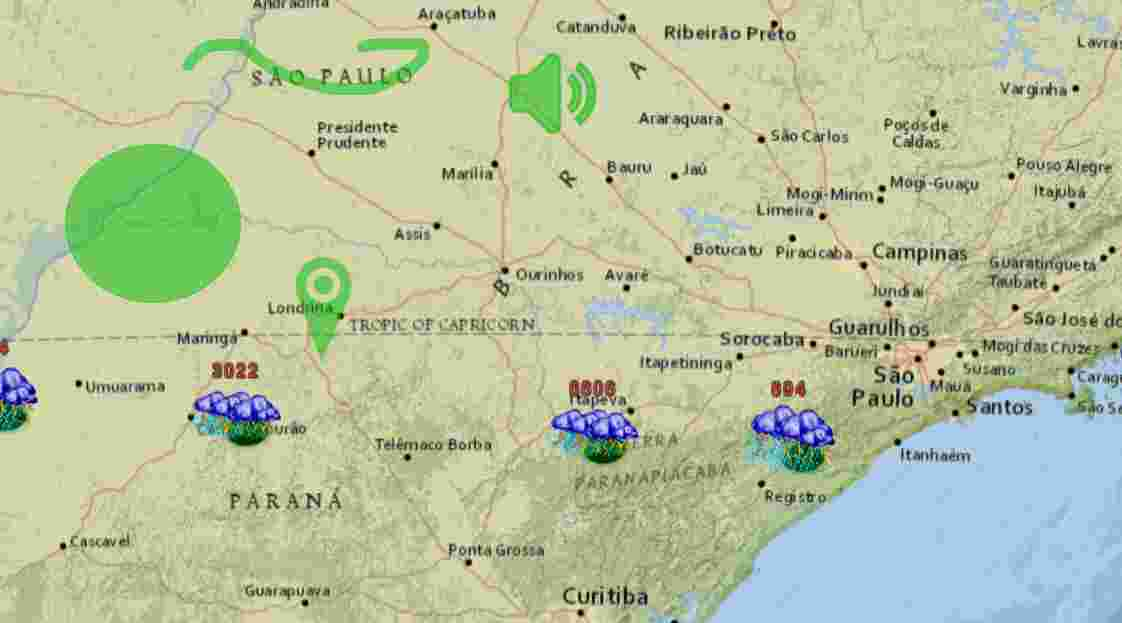
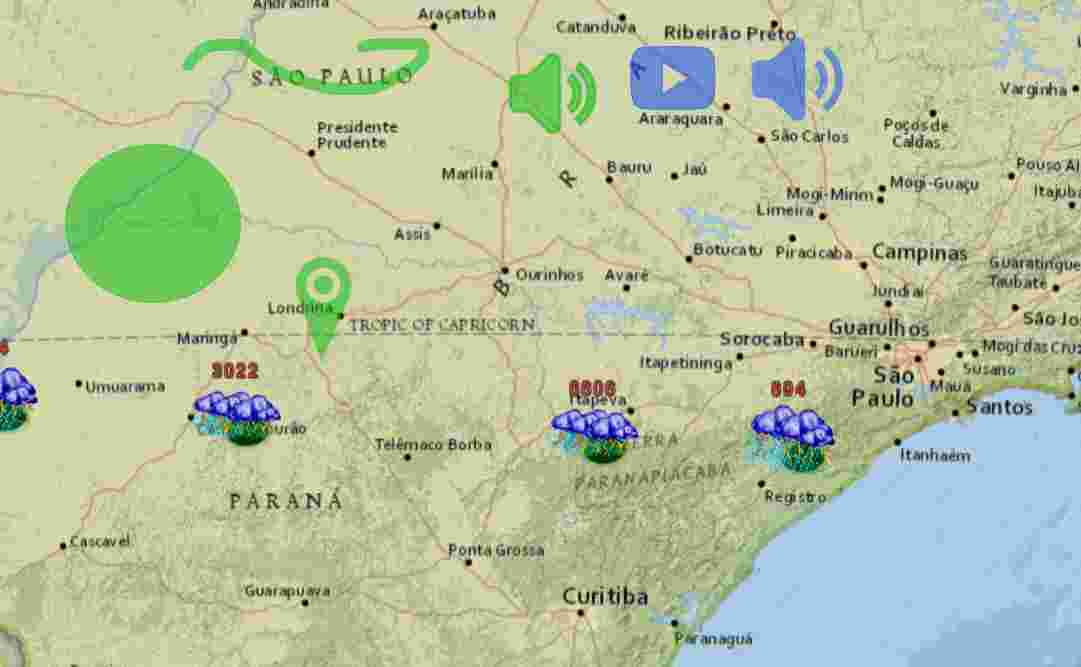
Correção no tamanho dos ícones audio e video e fechar ao tirar seleção do elemento multimidia

diff --git a/ProjetoColaborativo/Scripts/paineis.js b/ProjetoColaborativo/Scripts/paineis.js
@@ -72,7 +72,7 @@ canvas1.on('path:created', function (e) {
     SaveObject(e.path, false);
 });
 
-var audio;
+var audio, video;
 canvas1.on('object:selected', function (e) {
 
     var o = canvas1.getActiveObject();
@@ -92,6 +92,8 @@ canvas1.on('selection:cleared', function() {
     if (audio) {
         audio.pause();
     }
+
+    $("#media-player-toolbar").fadeOut();
 });
 
 function SaveObject(target, remover) {
@@ -391,7 +393,7 @@ $("input[type='button'].icon-pin").click(function () {
  * SPEAKER
  */
 
-var speakerpath = "M19.779,3.349l-1.111,1.664C20.699,6.663,22,9.179,22,12    c0,2.822-1.301,5.338-3.332,6.988l1.111,1.663C22.345,18.639,24,15.516,24,12C24,8.485,22.346,5.362,19.779,3.349z M17.55,6.687    l-1.122,1.68c0.968,0.913,1.58,2.198,1.58,3.634s-0.612,2.722-1.58,3.635l1.122,1.68C19.047,16.03,20,14.128,20,12    C20,9.873,19.048,7.971,17.55,6.687z M12,1c-1.177,0-1.533,0.684-1.533,0.684S7.406,5.047,5.298,6.531C4.91,6.778,4.484,7,3.73,7    H2C0.896,7,0,7.896,0,9v6c0,1.104,0.896,2,2,2h1.73c0.754,0,1.18,0.222,1.567,0.469c2.108,1.484,5.169,4.848,5.169,4.848    S10.823,23,12,23c1.104,0,2-0.895,2-2V3C14,1.895,13.104,1,12,1z";
+var speakerpath = "m112.337,85.047l-3.333,4.992c6.093,4.95 9.996,12.498 9.996,20.961c0,8.466 -3.903,16.014 -9.996,20.964l3.333,4.989c7.698,-6.036 12.663,-15.405 12.663,-25.953c0,-10.545 -4.962,-19.914 -12.663,-25.953zm-6.687,10.014l-3.366,5.04c2.904,2.739 4.74,6.594 4.74,10.902s-1.836,8.166 -4.74,10.905l3.366,5.04c4.491,-3.858 7.35,-9.564 7.35,-15.948c0,-6.381 -2.856,-12.087 -7.35,-15.939zm-16.65,-17.061c-3.531,0 -4.599,2.052 -4.599,2.052s-9.183,10.089 -15.507,14.541c-1.164,0.741 -2.442,1.407 -4.704,1.407l-5.19,0c-3.312,0 -6,2.688 -6,6l0,18c0,3.312 2.688,6 6,6l5.19,0c2.262,0 3.54,0.666 4.701,1.407c6.324,4.452 15.507,14.544 15.507,14.544s1.071,2.049 4.602,2.049c3.312,0 6,-2.685 6,-6l0,-54c0,-3.315 -2.688,-6 -6,-6z";
 $("input[type='button'].icon-speaker").click(function () {
 
     resetAudioRecordTools();
@@ -480,8 +482,8 @@ function resetAudioRecordTools() {
 /**
  * VIDEO
  */
-
-var youtubepath = "M391.939,159.642c-11.485-12.816-24.349-12.892-30.247-13.618  c-42.252-3.275-105.625-3.275-105.625-3.275h-0.142c0,0-63.374,0-105.616,3.275c-5.898,0.727-18.752,0.802-30.247,13.618  c-9.041,9.777-11.995,31.984-11.995,31.984s-3.02,26.057-3.02,52.115v24.424c0,26.076,3.02,52.124,3.02,52.124  s2.945,22.197,11.995,31.955c11.495,12.816,26.566,12.429,33.286,13.769C177.499,368.487,256,369.251,256,369.251  s63.44-0.113,105.691-3.35c5.898-0.755,18.762-0.83,30.247-13.647c9.041-9.758,11.995-31.955,11.995-31.955s3.02-26.057,3.02-52.124  V243.75c0-26.066-3.02-52.124-3.02-52.124S400.99,169.42,391.939,159.642z M218.297,312.626V199.375l94.376,56.626L218.297,312.626z  ";
+var deg;
+var youtubepath = "m79.73329,4.69492c-3.19192,-3.56183 -6.7671,-3.58296 -8.40627,-3.78473c-11.74272,-0.91019 -29.3554,-0.91019 -29.3554,-0.91019l-0.03946,0c0,0 -17.61296,0 -29.3529,0.91019c-1.63918,0.20205 -5.21157,0.22289 -8.40627,3.78473c-2.51268,2.71723 -3.33366,8.88902 -3.33366,8.88902s-0.83932,7.24179 -0.83932,14.48385l0,6.78794c0,7.24707 0.83932,14.48635 0.83932,14.48635s0.81848,6.16901 3.33366,8.88096c3.1947,3.56183 7.38325,3.45428 9.25088,3.82669c6.71207,0.68758 28.52914,0.89991 28.52914,0.89991s17.6313,-0.03141 29.37374,-0.93104c1.63918,-0.20983 5.21435,-0.23067 8.40627,-3.79279c2.51268,-2.71195 3.33366,-8.88096 3.33366,-8.88096s0.83932,-7.24179 0.83932,-14.48635l0,-6.78822c0,-7.24429 -0.83932,-14.48635 -0.83932,-14.48635s-0.81792,-6.17151 -3.33338,-8.88902zm-48.25875,42.51746l0,-31.47482l26.22907,15.73755l-26.22907,15.73727z";
 $("input[type='button'].icon-youtube").click(function () {
 
     resetVideoRecordTools();
@@ -522,7 +524,7 @@ $("input[type='button'].icon-youtube").click(function () {
                 collabtype: 'video',
                 naosalvar: true
             });
-
+            deg = drawingobject;
             canvas1.add(drawingobject);
 
             captureAudioPlusVideo(commonConfig);
